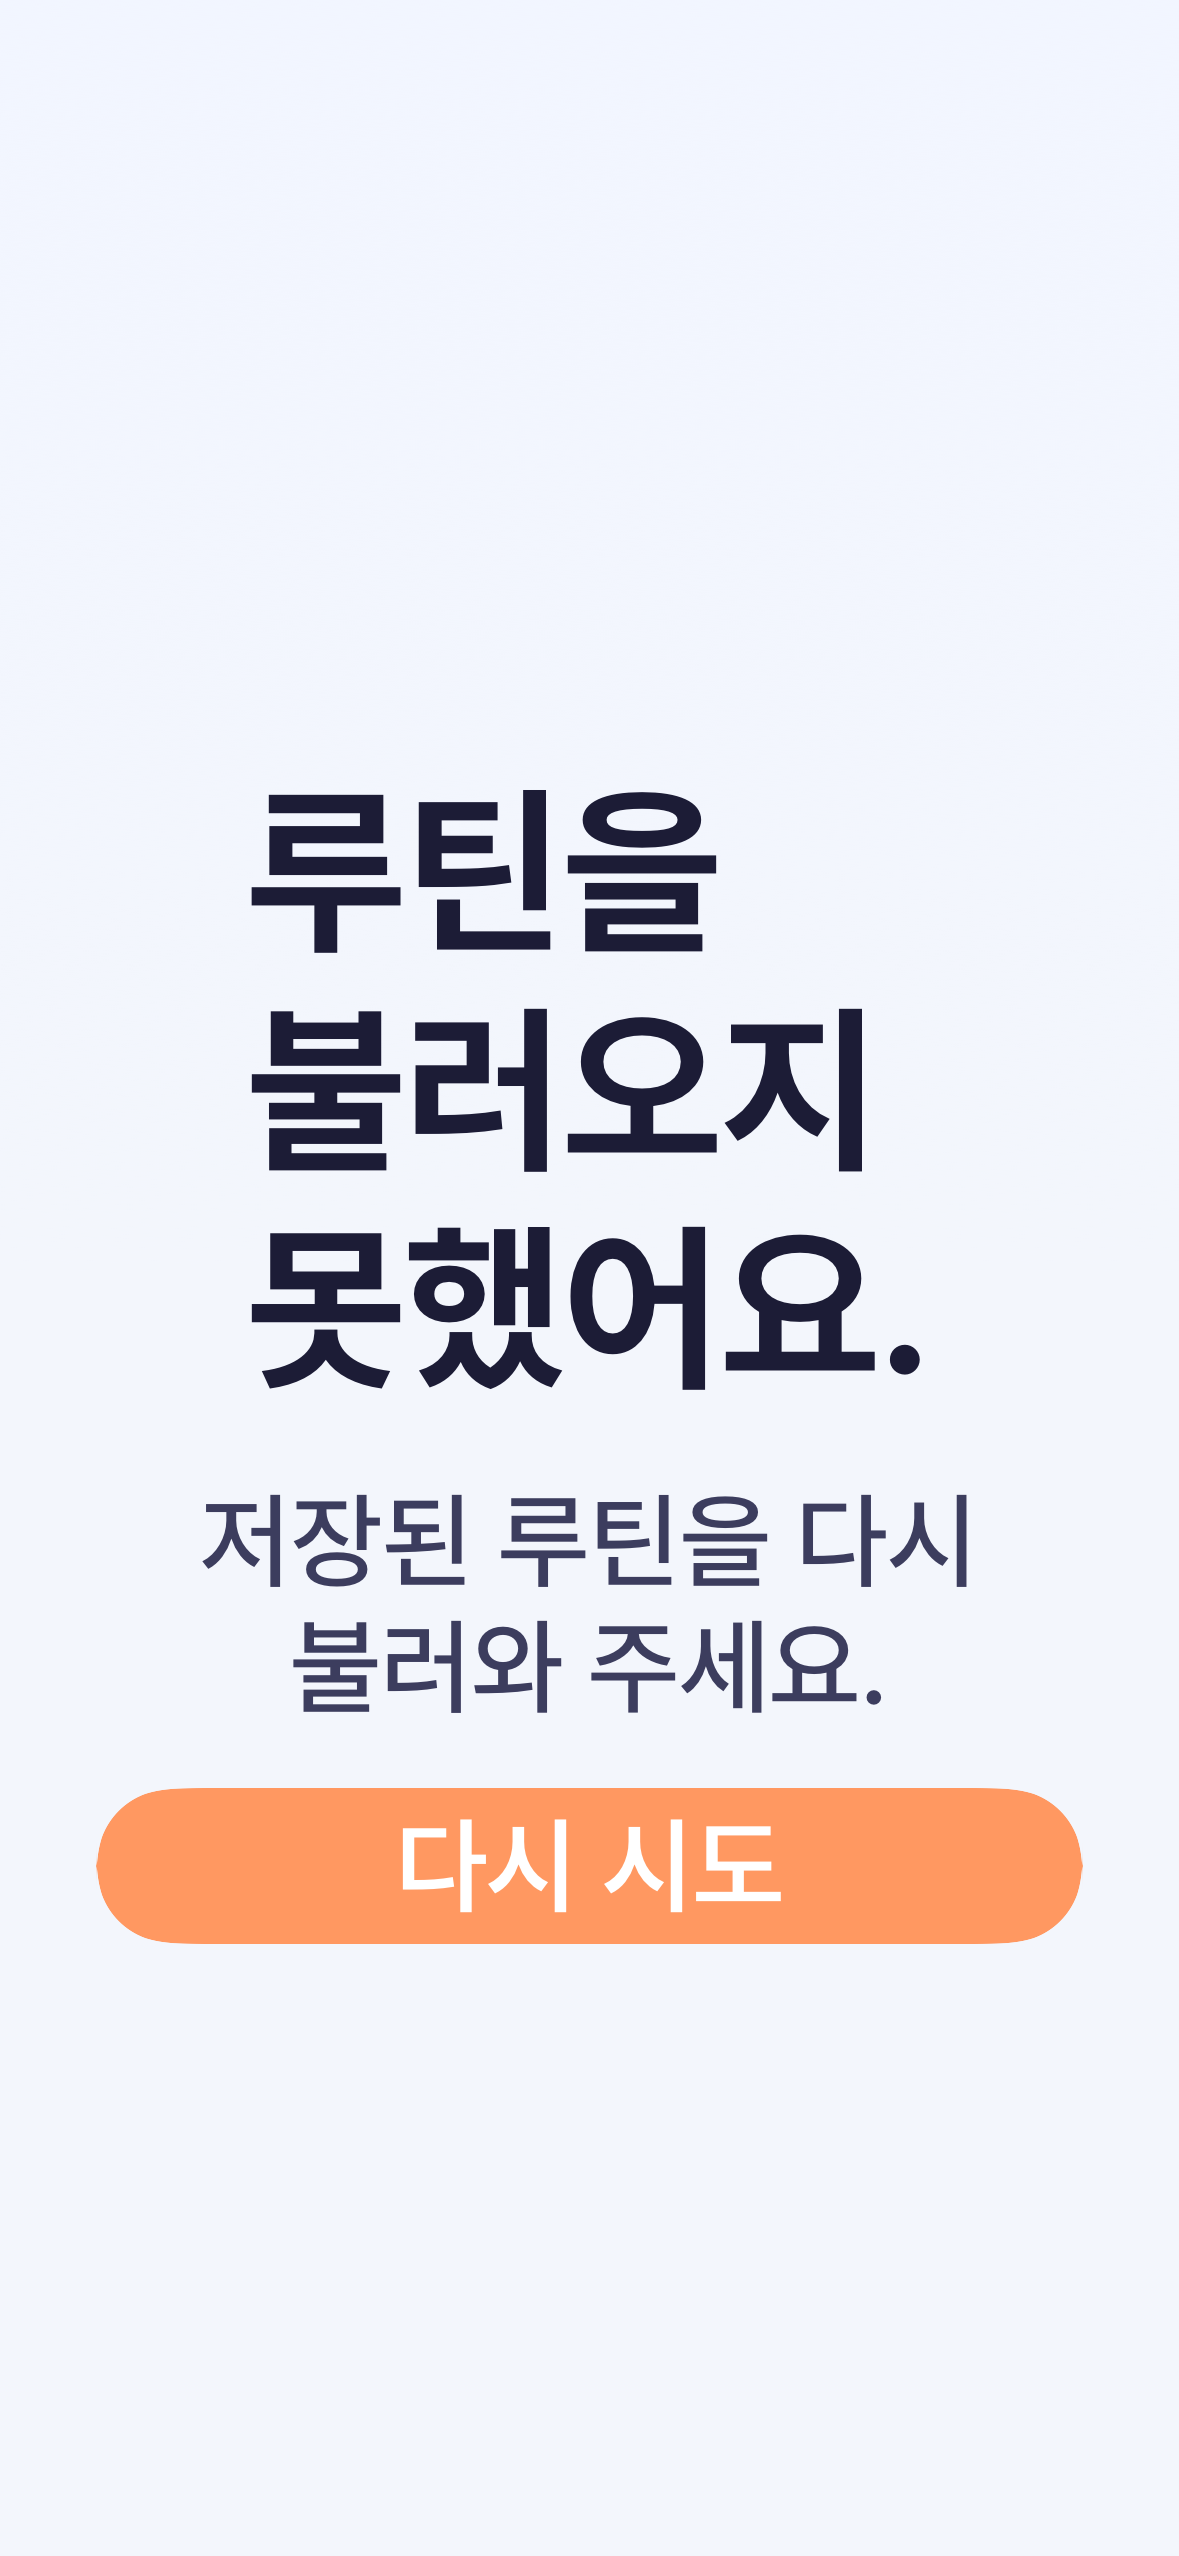
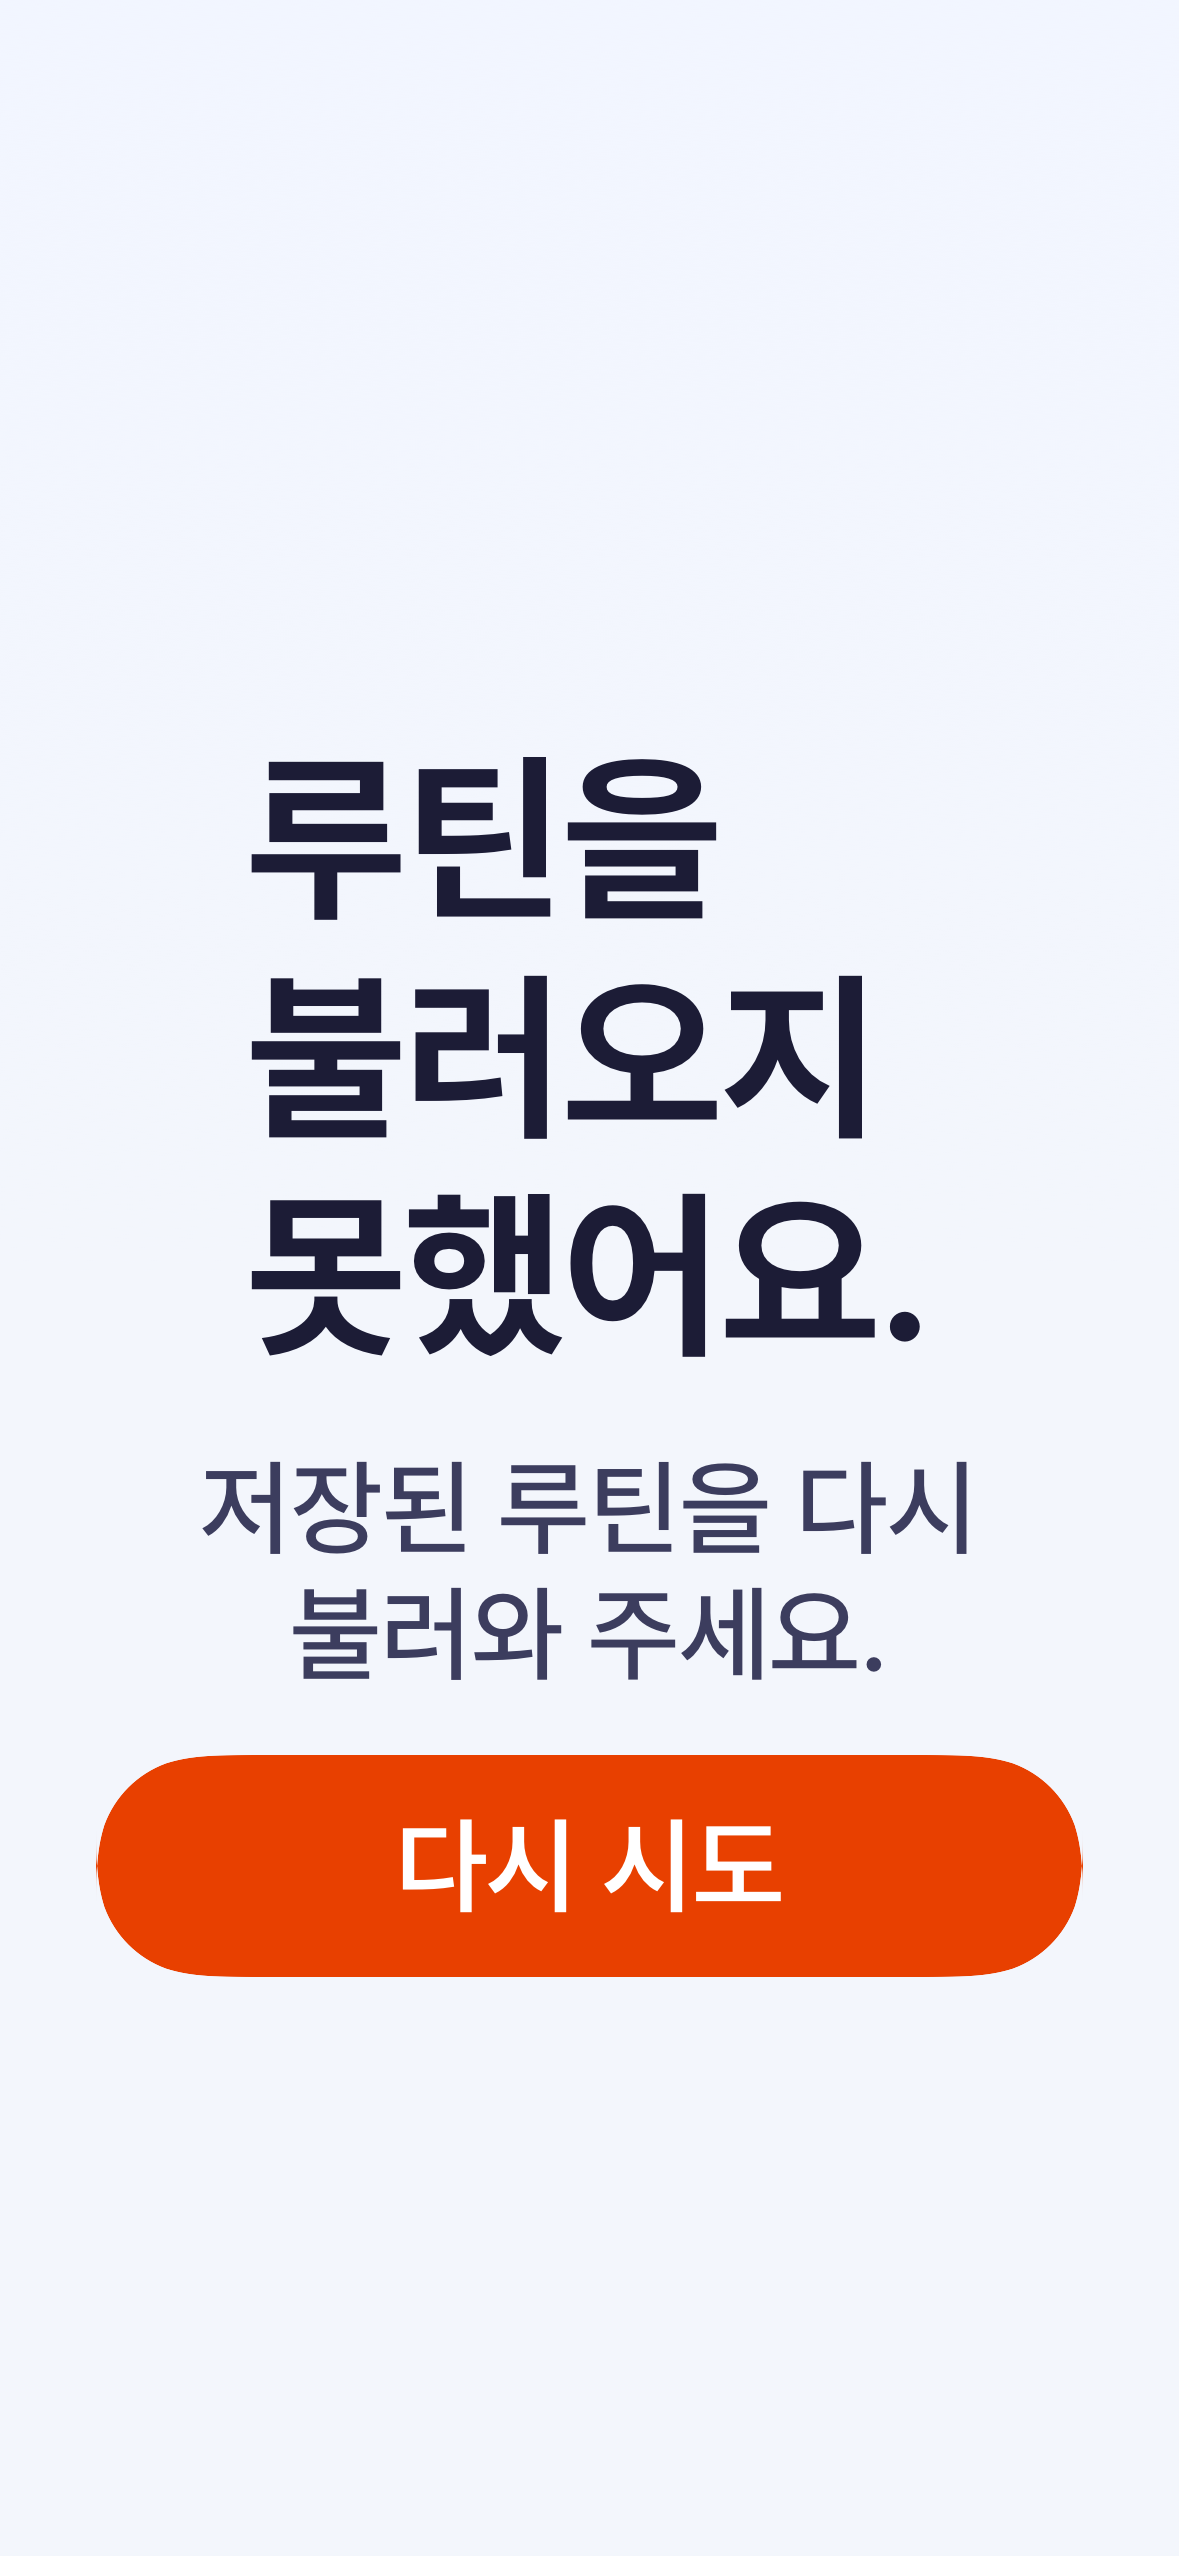
[Refactor] 수작업 캡슐 CTA를 MoruButton으로 교체하고 시각 테스트 우회로 제거
- RoutinePlayerView(재시도·계속·저장 재시도), SnoozeSheetView(설정·취소),
  TodayRoutineRecordView(홈으로), RoutineFinishedView(기록 확인·홈으로),
  HistoryComponents(빈 상태 액션)의 손수 만든 캡슐 버튼 8곳을 MoruButton으로
  바꾼다. 높이 48/52/54와 가로 여백 20/22가 하나로 맞춰지고, 고정 폰트라
  Dynamic Type을 따르지 않던 버튼이 접근성 크기에 반응한다.
- secondary 스타일에 1pt border를 넣어 흰 시트 위에서도 보이게 한다.
- FinalScreenVisualTests의 matchesApprovedBaseline: false 우회(8장이 PNG 크기만
  검사)를 제거하고 pr52 해시 8개를 기준선에 추가한다.

시각 기준선: pr52 8개 신규, RoutinePlayer AX3 2장(resolution-retry,
terminal-failure) 재승인 — 버튼 글자가 접근성 크기에서 잘리지 않게 됐다.

Changed region(s): [[0.0611, 0.2782, 0.916, 0.7727]]

diff --git a/Moru/MoruTests/FinalScreenVisualTests.swift b/Moru/MoruTests/FinalScreenVisualTests.swift
@@ -113,14 +113,12 @@ final class FinalScreenVisualTests: XCTestCase {
       try render(
         mainScreen(await historyView(), selection: .record),
         filename: "moru-pr52-history-streak-\(variant.filenameSuffix).png",
-        variant: variant,
-        matchesApprovedBaseline: false
+        variant: variant
       )
       try render(
         weeklyComparisonCard(),
         filename: "moru-pr52-weekly-comparison-\(variant.filenameSuffix).png",
-        variant: variant,
-        matchesApprovedBaseline: false
+        variant: variant
       )
       try render(
         routineFinishedView(streak: RoutineStreak(
@@ -129,14 +127,12 @@ final class FinalScreenVisualTests: XCTestCase {
           completedWeekdays: [.sunday, .monday, .tuesday]
         )),
         filename: "moru-pr52-regular-completion-\(variant.filenameSuffix).png",
-        variant: variant,
-        matchesApprovedBaseline: false
+        variant: variant
       )
       try render(
         routineFinishedView(streak: nil, isTrial: true),
         filename: "moru-pr52-trial-completion-\(variant.filenameSuffix).png",
-        variant: variant,
-        matchesApprovedBaseline: false
+        variant: variant
       )
     }
   }
@@ -360,8 +356,7 @@ final class FinalScreenVisualTests: XCTestCase {
   private func render<Content: View>(
     _ content: Content,
     filename: String,
-    variant: VisualVariant,
-    matchesApprovedBaseline: Bool = true
+    variant: VisualVariant
   ) throws {
     let renderedContent = content
       .environment(\.dynamicTypeSize, variant.dynamicTypeSize)
@@ -393,11 +388,7 @@ final class FinalScreenVisualTests: XCTestCase {
     let url = URL(fileURLWithPath: "/private/tmp/\(filename)")
     try data.write(to: url, options: .atomic)
 
-    if matchesApprovedBaseline {
-      try assertMatchesApprovedBaseline(image, filename: filename)
-    } else {
-      XCTAssertGreaterThan(data.count, 1_000)
-    }
+    try assertMatchesApprovedBaseline(image, filename: filename)
   }
 
   private func assertMatchesApprovedBaseline(
@@ -527,6 +518,22 @@ private enum VisualBaseline {
       "AAAAACAAwADAACAAAAAAgAMAAzANSBzAGOYGgwaDAGAAAAAAAAAAAAAAAAAAAAAAAAAAAAAAAACiIszIzMgAAA==",
     "moru-pr50-session-empty-routine-light-AX3.png":
[1 lines of base64/hex data omitted]
+    "moru-pr52-history-streak-light-M.png":
[1 lines of base64/hex data omitted]
+    "moru-pr52-history-streak-light-AX3.png":
[1 lines of base64/hex data omitted]
+    "moru-pr52-weekly-comparison-light-M.png":
[1 lines of base64/hex data omitted]
+    "moru-pr52-weekly-comparison-light-AX3.png":
[1 lines of base64/hex data omitted]
+    "moru-pr52-regular-completion-light-M.png":
[1 lines of base64/hex data omitted]
+    "moru-pr52-regular-completion-light-AX3.png":
[1 lines of base64/hex data omitted]
+    "moru-pr52-trial-completion-light-M.png":
[1 lines of base64/hex data omitted]
+    "moru-pr52-trial-completion-light-AX3.png":
[1 lines of base64/hex data omitted]
   ]
 }
 

diff --git a/Moru/Moru/RoutineFlow/RoutinePlayer/RoutinePlayerView.swift b/Moru/Moru/RoutineFlow/RoutinePlayer/RoutinePlayerView.swift
@@ -109,18 +109,9 @@ struct RoutinePlayerView: View {
                 .foregroundStyle(AppColor.gray500)
                 .multilineTextAlignment(.center)
 
-            Button {
+            MoruButton("다시 시도") {
                 viewModel.retryResolution()
-            } label: {
-                Text("다시 시도")
-                    .font(AppFont.body1NormalSemiBold)
-                    .foregroundStyle(AppColor.grayWhite)
-                    .frame(maxWidth: .infinity)
-                    .frame(height: 52)
-                    .background(MoruPilotColor.ctaFill)
-                    .clipShape(Capsule())
             }
-            .buttonStyle(.plain)
         }
         .padding(32)
     }
@@ -138,18 +129,9 @@ struct RoutinePlayerView: View {
                 .foregroundStyle(AppColor.gray500)
                 .multilineTextAlignment(.center)
 
-            Button {
+            MoruButton("계속") {
                 viewModel.continueAfterTerminalFailure()
-            } label: {
-                Text("계속")
-                    .font(AppFont.body1NormalSemiBold)
-                    .foregroundStyle(AppColor.grayWhite)
-                    .frame(maxWidth: .infinity)
-                    .frame(height: 52)
-                    .background(MoruPilotColor.ctaFill)
-                    .clipShape(Capsule())
             }
-            .buttonStyle(.plain)
         }
         .padding(32)
     }
@@ -546,19 +528,9 @@ struct RoutinePlayerView: View {
                 .foregroundStyle(AppColor.gray500)
                 .multilineTextAlignment(.center)
 
-            Button {
+            MoruButton("다시 시도", isEnabled: !viewModel.isSavingRun) {
                 viewModel.retrySavingRun()
-            } label: {
-                Text("다시 시도")
-                    .font(AppFont.body1NormalSemiBold)
-                    .foregroundStyle(AppColor.grayWhite)
-                    .frame(maxWidth: .infinity)
-                    .frame(height: 48)
-                    .background(MoruPilotColor.ctaFill)
-                    .clipShape(Capsule())
             }
-            .buttonStyle(.plain)
-            .disabled(viewModel.isSavingRun)
         }
         .padding(20)
         .background(AppColor.grayWhite)

diff --git a/Moru/Moru/Features/History/HistoryComponents.swift b/Moru/Moru/Features/History/HistoryComponents.swift
@@ -1060,27 +1060,11 @@ struct HistoryStatusView: View {
                         .fixedSize(horizontal: false, vertical: true)
 
                     if let primaryActionTitle, let primaryAction {
-                        if dynamicTypeSize.isAccessibilitySize {
-                            Button(action: primaryAction) {
-                                Text(primaryActionTitle)
-                                    .moruTextStyle(.b4.weight(.semiBold))
-                                    .foregroundStyle(MoruPilotColor.textStrong)
-                                    .multilineTextAlignment(.center)
-                                    .fixedSize(horizontal: false, vertical: true)
-                                    .padding(.horizontal, MoruPilotSpacing.twenty)
-                                    .padding(.vertical, MoruPilotSpacing.sixteen)
-                                    .frame(maxWidth: .infinity, minHeight: 54)
-                                    .background(AppColor.grayWhite)
-                                    .clipShape(Capsule())
-                            }
-                            .buttonStyle(.plain)
-                        } else {
-                            MoruButton(
-                                primaryActionTitle,
-                                style: .secondary,
-                                action: primaryAction
-                            )
-                        }
+                        MoruButton(
+                            primaryActionTitle,
+                            style: .secondary,
+                            action: primaryAction
+                        )
                     }
 
                     if let secondaryActionTitle, let secondaryAction {

diff --git a/Moru/Moru/RoutineFlow/RoutinePlayer/RoutineFinishedView.swift b/Moru/Moru/RoutineFlow/RoutinePlayer/RoutineFinishedView.swift
@@ -324,48 +324,21 @@ struct RoutineFinishedView: View {
   @ViewBuilder
   private var bottomButtonSection: some View {
     if isTrial {
-      finishedButton(
-        title: "홈으로",
-        foregroundColor: AppColor.grayWhite,
-        backgroundColor: MoruPilotColor.ctaFill,
-        action: onTapHome
-      )
+      MoruButton("홈으로") {
+        onTapHome()
+      }
       .padding(.horizontal, 2)
     } else {
       VStack(spacing: 10) {
-        finishedButton(
-          title: "오늘의 기록 확인",
-          foregroundColor: AppColor.gray600,
-          backgroundColor: AppColor.grayWhite,
-          action: onTapTodayRecord
-        )
+        MoruButton("오늘의 기록 확인", style: .secondary) {
+          onTapTodayRecord()
+        }
 
-        finishedButton(
-          title: "홈으로",
-          foregroundColor: AppColor.grayWhite,
-          backgroundColor: MoruPilotColor.ctaFill,
-          action: onTapHome
-        )
+        MoruButton("홈으로") {
+          onTapHome()
+        }
       }
     }
-  }
-
-  private func finishedButton(
-    title: String,
-    foregroundColor: Color,
-    backgroundColor: Color,
-    action: @escaping () -> Void
-  ) -> some View {
-    Button(action: action) {
-      Text(title)
-        .moruTextStyle(.b4.weight(.semiBold))
-        .foregroundStyle(foregroundColor)
-        .frame(maxWidth: .infinity)
-        .frame(minHeight: 54)
-        .background(backgroundColor)
-        .clipShape(Capsule())
-    }
-    .buttonStyle(.plain)
   }
 
   private var cardBackground: some View {

diff --git a/Moru/Moru/RoutineFlow/Alarm/SnoozeSheetView.swift b/Moru/Moru/RoutineFlow/Alarm/SnoozeSheetView.swift
@@ -64,36 +64,14 @@ struct SnoozeSheetView: View {
 
             Spacer(minLength: 0)
 
-            Button {
+            MoruButton("다시 알림 설정") {
                 onConfirm(selectedMinutes)
-            } label: {
-                Text("다시 알림 설정")
-                    .font(AppFont.body1NormalSemiBold)
-                    .foregroundStyle(AppColor.grayWhite)
-                    .frame(maxWidth: .infinity)
-                    .frame(height: 54)
-                    .background(MoruPilotColor.ctaFill)
-                    .clipShape(Capsule())
             }
-            .buttonStyle(.plain)
-            .padding(.horizontal, 22)
+            .padding(.horizontal, 20)
 
-            Button {
+            MoruButton("취소", style: .secondary) {
                 onCancel()
-            } label: {
-                Text("취소")
-                    .font(AppFont.body1NormalSemiBold)
-                    .foregroundStyle(AppColor.gray600)
-                    .frame(maxWidth: .infinity)
-                    .frame(height: 54)
-                    .background(AppColor.grayWhite)
-                    .overlay {
-                        Capsule()
-                            .stroke(AppColor.gray150, lineWidth: 1)
-                    }
-                    .clipShape(Capsule())
             }
-            .buttonStyle(.plain)
             .padding(.horizontal, 20)
             .padding(.top, 10)
             .padding(.bottom, 21)

diff --git a/Moru/Moru/RoutineFlow/RoutinePlayer/TodayRoutineRecordView.swift b/Moru/Moru/RoutineFlow/RoutinePlayer/TodayRoutineRecordView.swift
@@ -395,19 +395,10 @@ struct TodayRoutineRecordView: View {
     /// 홈으로 버튼
     private var fixedHomeButton: some View {
         VStack(spacing: 0) {
-            Button {
+            MoruButton("홈으로") {
                 onTapHome()
-            } label: {
-                Text("홈으로")
-                    .font(AppFont.body1NormalSemiBold)
-                    .foregroundStyle(AppColor.grayWhite)
-                    .frame(maxWidth: .infinity)
-                    .frame(height: 54)
-                    .background(MoruPilotColor.ctaFill)
-                    .clipShape(Capsule())
             }
-            .buttonStyle(.plain)
-            .padding(.horizontal, 22)
+            .padding(.horizontal, 20)
             .padding(.top, 10)
             .padding(.bottom, 8)
         }

diff --git a/Moru/Moru/DesignSystem/Components/MoruButton.swift b/Moru/Moru/DesignSystem/Components/MoruButton.swift
@@ -47,6 +47,10 @@ struct MoruButton: View {
         .frame(maxWidth: style == .text ? nil : .infinity)
         .frame(minHeight: MoruButtonMetric.minimumHeight)
         .background(backgroundColor)
+        .overlay(
+          RoundedRectangle(cornerRadius: AppRadius.pill)
+            .stroke(borderColor, lineWidth: style == .secondary ? 1 : 0)
+        )
         .clipShape(RoundedRectangle(cornerRadius: AppRadius.pill))
     }
     .disabled(!isEnabled)
@@ -73,6 +77,10 @@ struct MoruButton: View {
     case .text:
       Color.clear
     }
+  }
+
+  private var borderColor: Color {
+    style == .secondary ? MoruPilotColor.border : Color.clear
   }
 
   private var verticalPadding: CGFloat {
